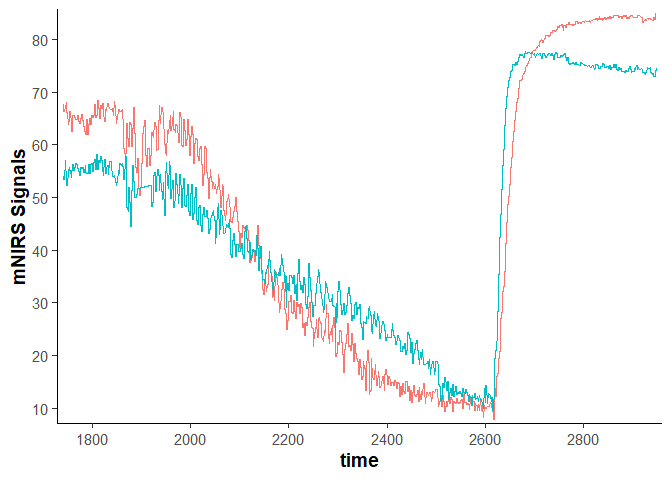
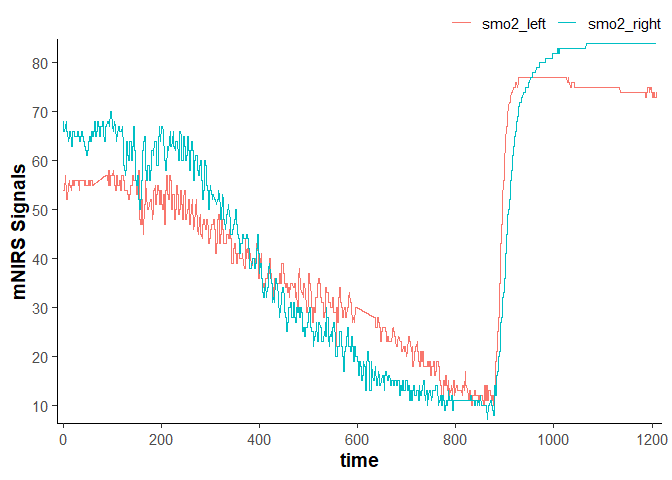
rebuild readme.md

diff --git a/README.md b/README.md
@@ -31,38 +31,39 @@ devtools::install_github("jemarnold/mNIRS")
 ### Read data from file
 
 ``` r
+library(dplyr, warn.conflicts = FALSE)
+library(ggplot2)
 library(mNIRS)
 
-## {mNIRS} includes some sample files from Moxy and Train.Red
-file_path <- system.file("extdata", "moxy_ramp_example.xlsx", package = "mNIRS")
+## {mNIRS} includes sample files from a few NIRS devices
+file_path <- system.file("extdata/moxy_ramp_example.xlsx", package = "mNIRS")
 
-## rename columns in the format "new_name" = "original_name"
-## where "original_name" should match the file column name exactly
-data_raw <- read_data(file_path = file_path,
-                      nirs_columns = c(smo2_left = "smo2_left_VL",
-                                       smo2_right = "smo2_right_VL"),
-                      sample_column = c(time = "Time"),
-                      event_column = c(event = "Event"),
-                      .keep_all = TRUE,
-                      .verbose = TRUE)
-#> Warning: "sample_column = time" has non-sequential or repeating values. Consider
-#> investigating at "time = 1952, 1952, 1952, 2924.01, and 2924.01".
-#> ℹ Estimated sample rate = 2 Hz.
+## rename columns in the format `new_name1 = "file_column_name1"`
+## where "file_column_name1" should match the file column name exactly
+data_raw <- read_data(file_path,
+                      nirs_columns = c(smo2_left = "SmO2 Live",
+                                       smo2_right = "SmO2 Live(2)"),
+                      sample_column = c(time = "hh:mm:ss"),
+                      event_column = c(lap = "Lap"),
+                      sample_rate = 2,
+                      numeric_time = TRUE,
+                      keep_all = FALSE,
+                      verbose = FALSE)
 
 data_raw
 #> # A tibble: 2,203 × 4
-#>     time event smo2_left smo2_right
-#>    <dbl> <chr>     <dbl>      <dbl>
-#>  1 1740. <NA>       67.6       54  
-#>  2 1740. <NA>       67.6       54  
-#>  3 1741. <NA>       67.6       54  
-#>  4 1742. <NA>       66.3       53.5
-#>  5 1742. <NA>       66.3       53.5
-#>  6 1743. <NA>       66.3       53.5
-#>  7 1743. <NA>       66.3       53.5
-#>  8 1744. <NA>       67.2       57.1
-#>  9 1744. <NA>       67.2       57.1
-#> 10 1745. <NA>       67.2       57.1
+#>     time   lap smo2_left smo2_right
+#>    <dbl> <dbl>     <dbl>      <dbl>
+#>  1 1740.     1        54         68
+#>  2 1740.     1        54         68
+#>  3 1741.     1        54         68
+#>  4 1742.     1        54         66
+#>  5 1742.     1        54         66
+#>  6 1743.     1        54         66
+#>  7 1743.     1        54         66
+#>  8 1744.     1        57         67
+#>  9 1744.     1        57         67
+#> 10 1745.     1        57         67
 #> # ℹ 2,193 more rows
 
 plot(data_raw)
@@ -70,10 +71,9 @@ plot(data_raw)
 
 <img src="man/figures/README-unnamed-chunk-2-1.png" width="100%" />
 
-### Replace fixed values, outliers, and missing values
+### Replace outliers, invalid values, and missing Values
 
 ``` r
-library(dplyr, warn.conflicts = FALSE)
 
 ## metadata are stored in dataframe attributes
 nirs_columns <- attributes(data_raw)$nirs_columns
@@ -81,11 +81,12 @@ sample_rate <- attributes(data_raw)$sample_rate
 
 data_cleaned <- data_raw |> 
     mutate(
+        time = time - first(time), ## correct time column to start at zero
         across(any_of(nirs_columns), 
-               \(.x) replace_fixed_values(x = .x,
-                                          fixed_values = c(0, 100),
-                                          width = 20 * sample_rate,
-                                          return = "NA")
+               \(.x) replace_invalid(x = .x,
+                                     values = c(0, 100),
+                                     width = 20 * sample_rate,
+                                     return = "NA")
         ),
         across(any_of(nirs_columns), 
                \(.x) replace_outliers(x = .x,
@@ -95,27 +96,27 @@ data_cleaned <- data_raw |>
                                       return = "median")
         ),
         across(any_of(nirs_columns), 
-               \(.x) replace_missing_values(x = .x,
-                                            method = "linear",
-                                            na.rm = FALSE,
-                                            maxgap = Inf)
+               \(.x) replace_missing(x = .x,
+                                     method = "linear",
+                                     na.rm = FALSE,
+                                     maxgap = Inf)
         ),
     )
 
 data_cleaned
 #> # A tibble: 2,203 × 4
-#>     time event smo2_left smo2_right
-#>    <dbl> <chr>     <dbl>      <dbl>
-#>  1 1740. <NA>       67.6       54  
-#>  2 1740. <NA>       67.6       54  
-#>  3 1741. <NA>       67.6       54  
-#>  4 1742. <NA>       66.3       53.5
-#>  5 1742. <NA>       66.3       53.5
-#>  6 1743. <NA>       66.3       53.5
-#>  7 1743. <NA>       66.3       53.5
-#>  8 1744. <NA>       67.2       57.1
-#>  9 1744. <NA>       67.2       57.1
-#> 10 1745. <NA>       67.2       57.1
+#>     time   lap smo2_left smo2_right
+#>    <dbl> <dbl>     <dbl>      <dbl>
+#>  1 0         1        54         68
+#>  2 0.400     1        54         68
+#>  3 0.960     1        54         68
+#>  4 1.51      1        54         66
+#>  5 2.06      1        54         66
+#>  6 2.61      1        54         66
+#>  7 3.16      1        54         66
+#>  8 3.71      1        57         67
+#>  9 4.26      1        57         67
+#> 10 4.81      1        57         67
 #> # ℹ 2,193 more rows
 
 plot(data_cleaned)
@@ -127,29 +128,27 @@ plot(data_cleaned)
 
 ``` r
 
-sample_column <- attributes(data_cleaned)$sample_column
-
 data_resampled <- data_cleaned |> 
-    downsample_data(sample_column = sample_column,
-                       sample_rate = sample_rate,
-                       downsample_rate = 1) ## downsample to 1 Hz
-#> ℹ Estimated sample rate is 2 Hz. Output is downsampled at 1 Hz.
+    downsample_data(sample_column = NULL, ## will be automatically read from metadata
+                    sample_rate = NULL, ## will be automatically read from metadata
+                    downsample_time = 10) ## equal to `downsample_rate = 0.1`
+#> ℹ Sample rate = 2 Hz. Output is downsampled at 0.1 Hz.
 
 data_resampled
-#> # A tibble: 1,209 × 4
-#>     time smo2_left smo2_right event
-#>    <dbl>     <dbl>      <dbl> <chr>
-#>  1  1740      67.6       54   <NA> 
-#>  2  1741      66.3       53.5 <NA> 
-#>  3  1742      66.3       53.5 <NA> 
-#>  4  1743      66.8       55.3 <NA> 
-#>  5  1744      67.2       57.1 <NA> 
-#>  6  1745      67.6       55.2 <NA> 
-#>  7  1746      68         53.2 <NA> 
-#>  8  1747      67.1       52.8 <NA> 
-#>  9  1748      66.2       52.3 <NA> 
-#> 10  1749      65.1       53.7 <NA> 
-#> # ℹ 1,199 more rows
+#> # A tibble: 121 × 4
+#>     time   lap smo2_left smo2_right
+#>    <dbl> <dbl>     <dbl>      <dbl>
+#>  1     0     1      54.1       66.7
+#>  2    10     1      55.1       64.5
+#>  3    20     1      55.8       65.4
+#>  4    30     1      55.7       65.1
+#>  5    40     1      55.5       62.8
+#>  6    50     1      55.7       64.4
+#>  7    60     1      55.3       66.2
+#>  8    70     1      56.1       66.7
+#>  9    80     1      56.8       66.4
+#> 10    90     1      56.6       68.5
+#> # ℹ 111 more rows
 
 plot(data_resampled)
 ```
@@ -159,30 +158,32 @@ plot(data_resampled)
 ### Filter (smooth) data
 
 ``` r
-data_filtered <- data_resampled |> 
+data_filtered <- data_cleaned |> 
     mutate(
         across(any_of(nirs_columns),
                \(.x) filter_data(x = .x,
-                                 method = "moving-average",
-                                 width = 15)
+                                 method = "butterworth",
+                                 type = "low",
+                                 n = 2, ## see ?filter_data for details on filter parameters
+                                 W = 0.02)
         )
     )
 
 data_filtered
-#> # A tibble: 1,209 × 4
-#>     time smo2_left smo2_right event
-#>    <dbl>     <dbl>      <dbl> <chr>
-#>  1  1740      67.1       54.3 <NA> 
-#>  2  1741      67.0       54.1 <NA> 
-#>  3  1742      66.8       54.0 <NA> 
-#>  4  1743      66.5       54.1 <NA> 
-#>  5  1744      66.4       54.3 <NA> 
-#>  6  1745      66.2       54.4 <NA> 
-#>  7  1746      66.2       54.5 <NA> 
-#>  8  1747      66.2       54.5 <NA> 
-#>  9  1748      66.0       54.5 <NA> 
-#> 10  1749      65.8       54.6 <NA> 
-#> # ℹ 1,199 more rows
+#> # A tibble: 2,203 × 4
+#>     time   lap smo2_left smo2_right
+#>    <dbl> <dbl>     <dbl>      <dbl>
+#>  1 0         1      54.5       66.3
+#>  2 0.400     1      54.5       66.3
+#>  3 0.960     1      54.5       66.3
+#>  4 1.51      1      54.5       66.3
+#>  5 2.06      1      54.5       66.2
+#>  6 2.61      1      54.5       66.2
+#>  7 3.16      1      54.5       66.2
+#>  8 3.71      1      54.5       66.2
+#>  9 4.26      1      54.5       66.2
+#> 10 4.81      1      54.5       66.2
+#> # ℹ 2,193 more rows
 
 plot(data_filtered)
 ```
@@ -193,27 +194,27 @@ plot(data_filtered)
 
 ``` r
 data_shifted <- data_filtered |> 
-    ## wrap `nirs_columns` vector in list to shift all columns together
-    shift_data(nirs_columns = list(nirs_columns), 
-                    shift_to = 0,
-                    position = "first",
-                    mean_samples = 30) ## shift the mean first 30 sec equal to zero
+    ## convert `nirs_columns` to separate list items to shift each column separately
+    shift_data(nirs_columns = as.list(nirs_columns),
+               shift_to = 0,
+               position = "first",
+               mean_samples = 120 * sample_rate) ## shift the mean first 120 sec equal to zero
 
 data_shifted
-#> # A tibble: 1,209 × 4
-#>     time smo2_left smo2_right event
-#>    <dbl>     <dbl>      <dbl> <chr>
-#>  1  1740      6.91      -5.88 <NA> 
-#>  2  1741      6.81      -6.10 <NA> 
-#>  3  1742      6.62      -6.14 <NA> 
-#>  4  1743      6.35      -6.05 <NA> 
-#>  5  1744      6.16      -5.94 <NA> 
-#>  6  1745      6.03      -5.82 <NA> 
-#>  7  1746      5.97      -5.74 <NA> 
-#>  8  1747      5.98      -5.69 <NA> 
-#>  9  1748      5.82      -5.65 <NA> 
-#> 10  1749      5.66      -5.63 <NA> 
-#> # ℹ 1,199 more rows
+#> # A tibble: 2,203 × 4
+#>     time   lap smo2_left smo2_right
+#>    <dbl> <dbl>     <dbl>      <dbl>
+#>  1 0         1     -1.17      0.835
+#>  2 0.400     1     -1.17      0.832
+#>  3 0.960     1     -1.17      0.827
+#>  4 1.51      1     -1.17      0.819
+#>  5 2.06      1     -1.16      0.808
+#>  6 2.61      1     -1.16      0.795
+#>  7 3.16      1     -1.15      0.779
+#>  8 3.71      1     -1.14      0.762
+#>  9 4.26      1     -1.13      0.741
+#> 10 4.81      1     -1.12      0.719
+#> # ℹ 2,193 more rows
 
 plot(data_shifted)
 ```
@@ -221,32 +222,31 @@ plot(data_shifted)
 <img src="man/figures/README-unnamed-chunk-6-1.png" width="100%" />
 
 ``` r
-
 data_rescaled <- data_filtered |> 
-    ## convert `nirs_columns` vector to list to shift each column separately
+    ## convert `nirs_columns` vector to separate list items to shift each column separately
     rescale_data(nirs_columns = as.list(nirs_columns), 
-                        rescale_range = c(0, 100))
+                 rescale_range = c(0, 100)) ## rescale to a 0-100% functional exercise range
 
 data_rescaled
-#> # A tibble: 1,209 × 4
-#>     time smo2_left smo2_right event
-#>    <dbl>     <dbl>      <dbl> <chr>
-#>  1  1740      76.7       64.9 <NA> 
-#>  2  1741      76.6       64.6 <NA> 
-#>  3  1742      76.3       64.5 <NA> 
-#>  4  1743      76.0       64.6 <NA> 
-#>  5  1744      75.7       64.8 <NA> 
-#>  6  1745      75.5       65.0 <NA> 
-#>  7  1746      75.5       65.1 <NA> 
-#>  8  1747      75.5       65.2 <NA> 
-#>  9  1748      75.2       65.2 <NA> 
-#> 10  1749      75.0       65.3 <NA> 
-#> # ℹ 1,199 more rows
+#> # A tibble: 2,203 × 4
+#>     time   lap smo2_left smo2_right
+#>    <dbl> <dbl>     <dbl>      <dbl>
+#>  1 0         1      65.5       76.3
+#>  2 0.400     1      65.5       76.3
+#>  3 0.960     1      65.5       76.3
+#>  4 1.51      1      65.5       76.3
+#>  5 2.06      1      65.5       76.3
+#>  6 2.61      1      65.6       76.3
+#>  7 3.16      1      65.6       76.3
+#>  8 3.71      1      65.6       76.2
+#>  9 4.26      1      65.6       76.2
+#> 10 4.81      1      65.6       76.2
+#> # ℹ 2,193 more rows
 
 plot(data_rescaled)
 ```
 
-<img src="man/figures/README-unnamed-chunk-6-2.png" width="100%" />
+<img src="man/figures/README-unnamed-chunk-7-1.png" width="100%" />
 
 ### Process kinetics
 
